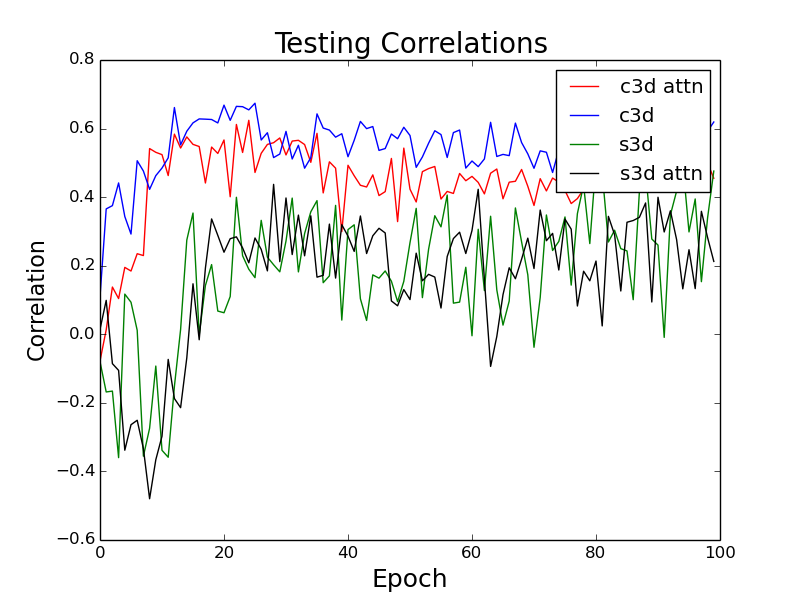
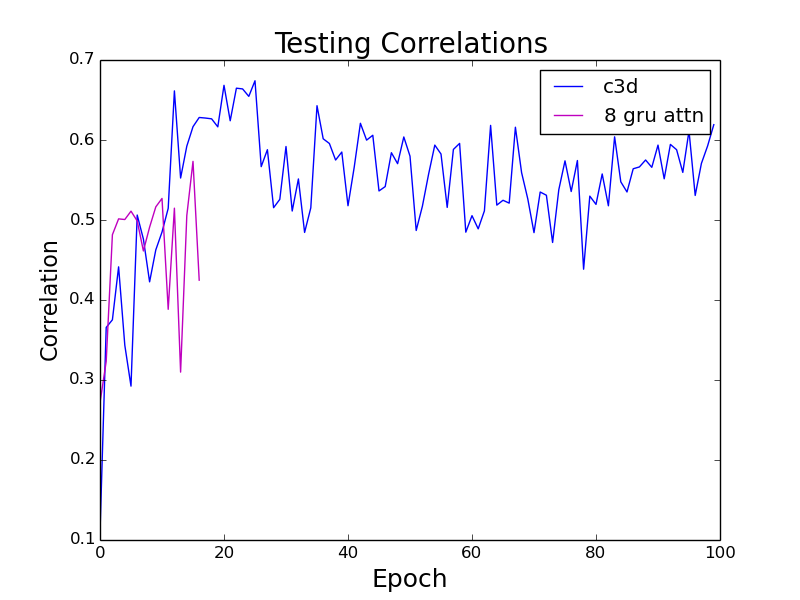
graph new exp logs

diff --git a/MTL-AQA_code_release/parse.py b/MTL-AQA_code_release/parse.py
@@ -5,6 +5,7 @@ file_name = "c3d_attn_train_logging_file_1.txt"
 file_name2 = "c3davg_train_logging_file_1.txt"
 file_name3 = "train_logging_file_1.txt"
 file_name4 = "s3d_attn_train_logging_file_1.txt"
+file_name5 = "c3davg_8_gru_attn_train_logging_file_1.txt"
 
 experiment_name = "Training Losses"
 
@@ -22,6 +23,9 @@ lines3 = f3.readlines()
 
 f4 = open(file_name4, 'r')
 lines4 = f4.readlines()
+
+f5 = open(file_name5, 'r')
+lines5 = f5.readlines()
 
 mode_label = None
 if mode == 'train':
@@ -140,7 +144,30 @@ for i in range(len(lines4)/12):
     # losses.append(middle_loss)
     losses_4.append(loss)
 
+losses_5 = []
 
+
+for i in range(len(lines5)/12):
+
+    epoch = lines5[i*12:i*12+12]
+    first_iter = epoch[0:4]
+    second_iter = epoch[4:8]
+    last_iter = epoch[8:]
+
+    first_loss = float(first_iter[0].split(',')[2].split(':')[1])
+    middle_loss = float(second_iter[0].split(',')[2].split(':')[1])
+
+
+    first_line = last_iter[0]
+    first_line = first_line.split(',')
+    first_line = [i.split(':') for i in first_line[2:]]
+    loss = float(first_line[0][1])
+
+
+
+    # losses.append(first_loss)
+    # losses.append(middle_loss)
+    losses_5.append(loss)
 
 def best_fit(X, Y):
 
@@ -182,10 +209,11 @@ def best_fit(X, Y):
 
 
 
-plt.plot(range(len(losses)), losses, '-r', label = 'c3d attn')
-plt.plot(range(len(losses_2)), losses_2, '-b', label = 'c3d')
-plt.plot(range(len(losses_3)), losses_3, '-g', label = 's3d')
-plt.plot(range(len(losses_4)), losses_4, '-k', label = 's3d attn')
+# plt.plot(range(len(losses[:20])), losses[:20], '-r', label = 'c3d attn')
+plt.plot(range(len(losses_2[:20])), losses_2[:20], '-b', label = 'c3d')
+# plt.plot(range(len(losses_3)[:20]), losses_3[:20], '-g', label = 's3d')
+# plt.plot(range(len(losses_4[:20])), losses_4[:20], '-k', label = 's3d attn')
+plt.plot(range(len(losses_5[:20])), losses_5[:20], '-m', label = '8 gru attn')
 plt.legend()
 
 

diff --git a/MTL-AQA_code_release/parse_test.py b/MTL-AQA_code_release/parse_test.py
@@ -5,6 +5,7 @@ file_name = "c3d_attn_test_logging_file_1.txt"
 file_name2 = "c3davg_test_logging_file_1.txt"
 file_name3 = "test_logging_file_1.txt"
 file_name4 = "s3d_attn_test_logging_file_1.txt"
+file_name5 = "c3davg_8_gru_attn_test_logging_file_1.txt"
 
 experiment_name = "Testing Correlations"
 
@@ -23,6 +24,9 @@ lines3 = f3.readlines()
 
 f4 = open(file_name4, 'r')
 lines4 = f4.readlines()
+
+f5 = open(file_name5, 'r')
+lines5 = f5.readlines()
 
 mode_label = None
 if mode == 'train':
@@ -54,10 +58,17 @@ for i in range(len(lines4)/3):
     corr = float(epoch[1:2][0].split(':')[1])
     corr4.append(corr)
 
-plt.plot(range(len(corr1)), corr1, '-r', label = 'c3d attn')
+corr5 = []
+for i in range(len(lines5)/3):
+    epoch = lines5[i*3:i*3+3]
+    corr = float(epoch[1:2][0].split(':')[1])
+    corr5.append(corr)
+
+# plt.plot(range(len(corr1)), corr1, '-r', label = 'c3d attn')
 plt.plot(range(len(corr2)), corr2, '-b', label = 'c3d')
-plt.plot(range(len(corr3)), corr3, '-g', label = 's3d')
-plt.plot(range(len(corr4)), corr4, '-k', label = 's3d attn')
+# plt.plot(range(len(corr3)), corr3, '-g', label = 's3d')
+# plt.plot(range(len(corr4)), corr4, '-k', label = 's3d attn')
+plt.plot(range(len(corr5)), corr5, '-m', label = '8 gru attn')
 plt.legend()
 
 
